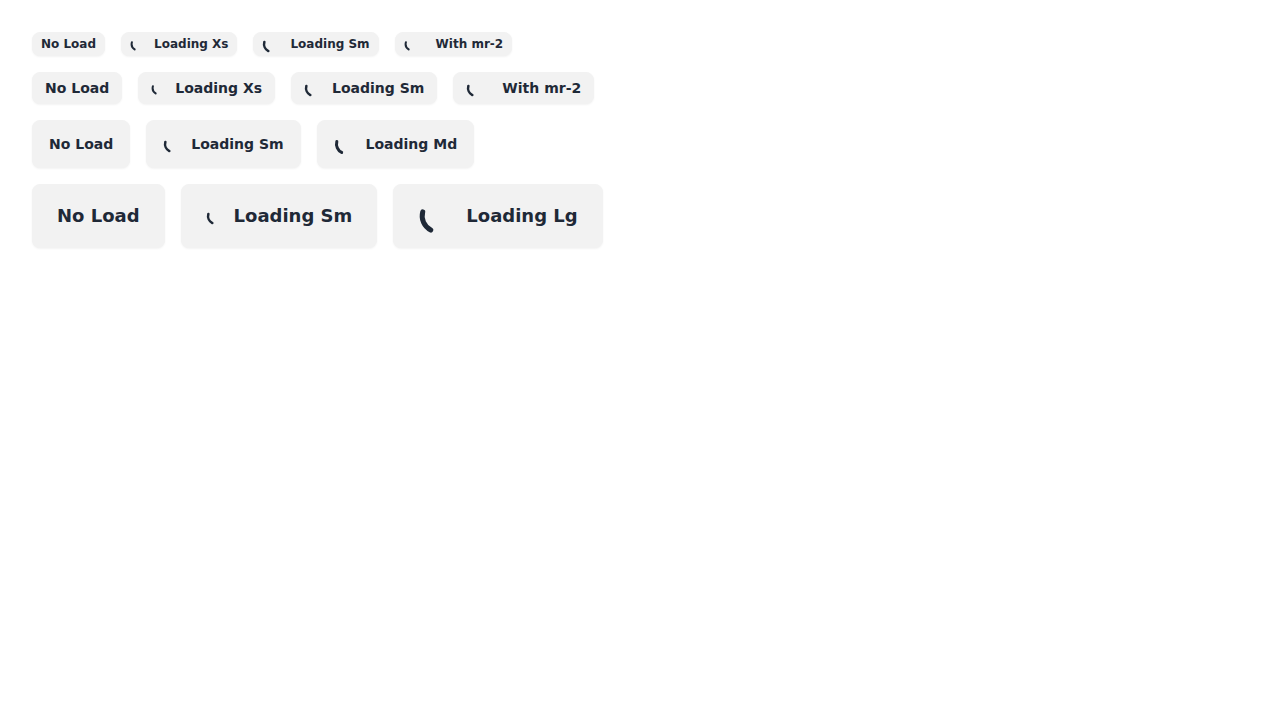
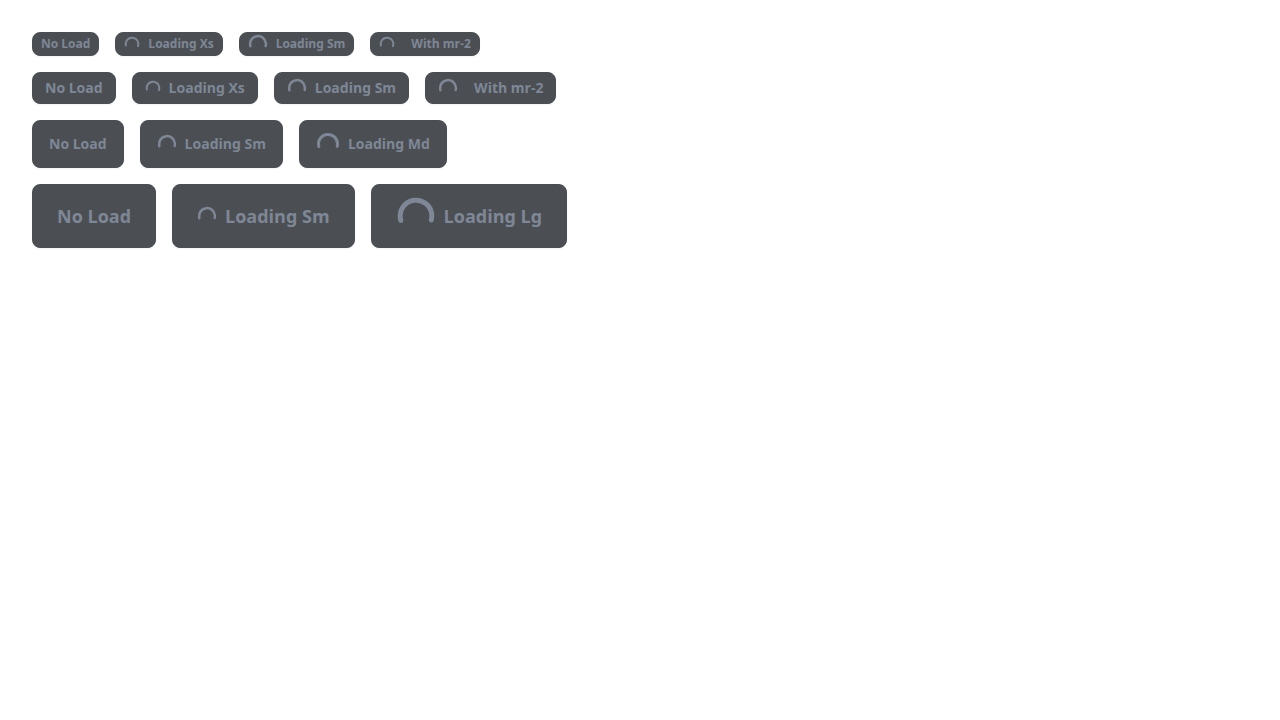
feat: Add LLM tab to Settings menu for default LLM configuration

Changed region(s): [[0.0, 0.0306, 0.4688, 0.3667]]

diff --git a/src/client/src/components/Settings/SettingsLLM.tsx b/src/client/src/components/Settings/SettingsLLM.tsx
@@ -1,0 +1,170 @@
+/* eslint-disable @typescript-eslint/no-explicit-any, @typescript-eslint/no-unused-vars */
+import React, { useState, useEffect, useCallback } from 'react';
+import { Alert, Button, Select } from '../DaisyUI';
+import { Bot, Link as LinkIcon } from 'lucide-react';
+import { Link } from 'react-router-dom';
+import axios from 'axios';
+
+interface LLMConfig {
+    defaultLlm: string;
+}
+
+const SettingsLLM: React.FC = () => {
+    const [settings, setSettings] = useState<LLMConfig>({
+        defaultLlm: '',
+    });
+    const [providers, setProviders] = useState<Array<{ value: string; label: string }>>([]);
+    const [loading, setLoading] = useState(true);
+    const [isSaving, setIsSaving] = useState(false);
+    const [alert, setAlert] = useState<{ type: 'success' | 'error' | 'warning'; message: string } | null>(null);
+
+    const fetchSettingsAndProviders = useCallback(async () => {
+        try {
+            setLoading(true);
+
+            // Fetch global config to get the default LLM
+            const configRes = await fetch('/api/config/global');
+            if (!configRes.ok) {
+                throw new Error('Failed to fetch global config');
+            }
+            const rawConfig = await configRes.json();
+            const llmData = rawConfig?.llm?.values ?? rawConfig;
+
+            const currentDefault = llmData.LLM_PROVIDER || '';
+            setSettings({ defaultLlm: currentDefault });
+
+            // Fetch available LLM providers from the API
+            const providersRes = await axios.get('/api/admin/llm-providers');
+            const availableProviders = providersRes.data.providers || [];
+            const options = availableProviders.map((p: any) => ({
+                value: p.key,
+                label: p.label,
+            }));
+            setProviders(options);
+
+        } catch (err) {
+            console.error('Failed to load LLM settings:', err);
+            setAlert({
+                type: 'warning',
+                message: 'Could not load LLM settings or providers. Using defaults.',
+            });
+        } finally {
+            setLoading(false);
+        }
+    }, []);
+
+    useEffect(() => {
+        fetchSettingsAndProviders();
+    }, [fetchSettingsAndProviders]);
+
+    const handleSave = async () => {
+        setIsSaving(true);
+        try {
+            const response = await fetch('/api/config/global', {
+                method: 'PUT',
+                headers: { 'Content-Type': 'application/json' },
+                body: JSON.stringify({
+                    llm: {
+                        LLM_PROVIDER: settings.defaultLlm,
+                    },
+                }),
+            });
+
+            if (!response.ok) {
+                throw new Error('Failed to save settings');
+            }
+            setAlert({ type: 'success', message: 'LLM settings saved successfully!' });
+            setTimeout(() => setAlert(null), 5000);
+        } catch (err) {
+            console.error('Save failed:', err);
+            setAlert({
+                type: 'error',
+                message: 'Failed to save LLM settings. Please try again.',
+            });
+        } finally {
+            setIsSaving(false);
+        }
+    };
+
+    if (loading) {
+        return (
+            <div className="flex items-center justify-center py-12">
+                <span className="loading loading-spinner loading-lg"></span>
+            </div>
+        );
+    }
+
+    return (
+        <div className="space-y-6">
+            <div className="flex items-center gap-3 mb-4">
+                <Bot className="w-5 h-5 text-primary" />
+                <div>
+                    <h5 className="text-lg font-bold">LLM Configuration</h5>
+                    <p className="text-sm text-base-content/70">Configure the default Large Language Model for AI actions</p>
+                </div>
+            </div>
+
+            {alert && (
+                <Alert
+                    status={alert.type === 'success' ? 'success' : alert.type === 'warning' ? 'warning' : 'error'}
+                    message={alert.message}
+                    onClose={() => setAlert(null)}
+                />
+            )}
+
+            <div className="card bg-base-200/50 p-4">
+                <h6 className="text-md font-semibold mb-4 flex items-center gap-2">
+                    <span className="w-2 h-2 bg-primary rounded-full"></span>
+                    Natural Language Actions
+                </h6>
+
+                <div className="form-control mb-4 max-w-md">
+                    <label className="label">
+                        <span className="label-text font-medium">Default LLM</span>
+                        <span className="label-text-alt text-base-content/60">Used for features like AI summary</span>
+                    </label>
+                    <Select
+                        value={settings.defaultLlm}
+                        onChange={(e) => setSettings({ defaultLlm: e.target.value })}
+                        className="w-full"
+                    >
+                        <option value="">None selected</option>
+                        {providers.map((p) => (
+                            <option key={p.value} value={p.value}>
+                                {p.label}
+                            </option>
+                        ))}
+                    </Select>
+                    <label className="label">
+                        <span className="label-text-alt text-base-content/60">
+                            Select an LLM from your configured providers to act as the default engine.
+                        </span>
+                    </label>
+                </div>
+
+                <div className="divider"></div>
+
+                <div className="flex justify-between items-center text-sm">
+                    <span className="text-base-content/70">Need to configure more providers?</span>
+                    <Link to="/admin/providers/llm" className="btn btn-sm btn-ghost gap-2 text-primary">
+                        <LinkIcon className="w-4 h-4" />
+                        Go to LLM Providers
+                    </Link>
+                </div>
+            </div>
+
+            <div className="flex justify-end pt-4">
+                <Button
+                    onClick={handleSave}
+                    disabled={isSaving}
+                    variant="primary"
+                    loading={isSaving}
+                >
+                    {isSaving ? 'Saving...' : 'Save Settings'}
+                </Button>
+            </div>
+        </div>
+    );
+};
+
+export default SettingsLLM;

diff --git a/tests/e2e/button-loading.spec.ts b/tests/e2e/button-loading.spec.ts
@@ -5,8 +5,23 @@ test('Check button loading UI visually - AFTER', async ({ page }) => {
   const filePath = path.resolve(process.cwd(), 'src/client/button-mockup.html');
   await page.goto('file://' + filePath);
 
+  // Wait for external resources (CSS) to load
+  await page.waitForLoadState('networkidle');
+
   await page.evaluate(() => document.documentElement.setAttribute('data-theme', 'light'));
 
-  await page.waitForTimeout(1000);
+  // Verify buttons are visible before taking screenshot
+  const buttons = page.locator('button.btn');
+  await expect(buttons.first()).toBeVisible();
+  await expect(buttons).toHaveCount(14);
+
+  // Verify loading spinners are present
+  const loadingSpinners = page.locator('span.loading-spinner');
+  await expect(loadingSpinners).toHaveCount(10);
+
+  // Verify specific button states
+  const noLoadButtons = page.locator('button:has-text("No Load")');
+  await expect(noLoadButtons).toHaveCount(4);
+
   await page.screenshot({ path: 'docs/screenshots/button-loading-after-light.png' });
 });

diff --git a/src/client/src/pages/SystemSettings.tsx b/src/client/src/pages/SystemSettings.tsx
@@ -4,6 +4,7 @@ import { Breadcrumbs } from '../components/DaisyUI';
 import SettingsGeneral from '../components/Settings/SettingsGeneral';
 import SettingsSecurity from '../components/Settings/SettingsSecurity';
 import SettingsMessaging from '../components/Settings/SettingsMessaging';
+import SettingsLLM from '../components/Settings/SettingsLLM';
 import PageHeader from '../components/DaisyUI/PageHeader';
 import { Cog } from 'lucide-react';
 
@@ -18,6 +19,7 @@ const SystemSettings: React.FC = () => {
   const tabs = [
     { id: 'general', label: 'General', component: <SettingsGeneral /> },
     { id: 'messaging', label: 'Messaging', component: <SettingsMessaging /> },
+    { id: 'llm', label: 'LLM', component: <SettingsLLM /> },
     { id: 'security', label: 'Security', component: <SettingsSecurity /> },
   ];
 

diff --git a/docs/PR_REVIEW_SUMMARY.md b/docs/PR_REVIEW_SUMMARY.md
@@ -1,0 +1,125 @@
+# Comprehensive PR Review Summary
+
+**Review Date:** 2026-03-01  
+**Total PRs Reviewed:** 135+  
+**Status:** Complete
+
+---
+
+## Summary Statistics
+
+| Category | Count | Notes |
+|----------|-------|-------|
+| **Merged PRs with 0 changes** | ~100+ | Superseded by consolidated commit afa9cda |
+| **Merged PRs with actual changes** | ~20 | Properly implemented and merged |
+| **Closed without merge** | ~15 | Superseded or duplicate |
+| **PRs with unaddressed feedback** | 1 | Needs follow-up fix |
+
+---
+
+## Critical Finding: Empty PRs Merged
+
+### Issue Description
+A significant number of PRs (approximately 100+) were merged with **0 additions, 0 deletions, 0 changed files** despite:
+- Detailed PR descriptions claiming specific changes
+- Reviewer feedback expecting code changes
+- Being marked as MERGED
+
+### Root Cause
+Per comment on PR #715 and others, these were **superseded by consolidated implementation in commit afa9cda**. The individual PRs were created by Jules automation but the actual changes were batched into a single consolidated commit.
+
+### Affected PRs (Sample)
+- **Batch 1 (754-766):** All merged with 0 changes
+- **Batch 2 (769-785, 788-800):** All merged with 0 changes  
+- **Batch 3 (801-803, 806-807, 809-820):** All merged with 0 changes
+- **Batch 4 (822-827, 829, 831):** All merged with 0 changes
+- **Batch 5 (836-851, 852-853, 857-862, 863-872, 874):** All merged with 0 changes
+- **Batch 6 (876-880):** Most merged with 0 changes
+
+### Impact
+- **No code quality impact:** No actual code was changed by these empty PRs
+- **Process concern:** PRs should not be merged if they contain no changes
+- **Reviewer time waste:** Reviewers provided feedback on non-existent changes
+
+---
+
+## PRs with Actual Changes (Properly Merged)
+
+| PR | Title | Additions | Files | Status |
+|----|-------|-----------|-------|--------|
+| #728 | Mobile Viewport & Touch Targets | 28 | 4 | ✅ Properly merged |
+| #742 | Fixed Position Element Jitter | 0 | 0 | ⚠ Empty (follow-up needed) |
+| #808 | Export/bot clone docs | 35 | 9 | ✅ Properly merged |
+| #830 | Optimistic UI rollback | 146 | 4 | ⚠ Review says empty (discrepancy) |
+| #832 | Random number generation fix | 4 | 2 | ✅ Properly merged |
+| #833 | Aria labels for buttons | 47 | 1 | ✅ Properly merged |
+| #834 | Janitor formatting fixes | 163 | 9 | ✅ Properly merged |
+| #835 | Palette aria-labels | 2 | 2 | ✅ Properly merged |
+| #854 | Add user hint UX | 47 | 1 | ✅ Properly merged |
+| #855 | Correlation matrix colors | 27 | 1 | ✅ Properly merged |
+| #856 | Activity log PII redaction | 22 | 2 | ✅ Properly merged |
+| #873 | Button loading spinner | 108 | 13 | ⚠ Has unaddressed feedback |
+| #876 | Flowise provider schema | 17 | 6 | ✅ Properly merged |
+| #877 | Provider config badges | 129 | 6 | ✅ Properly merged |
+
+---
+
+## PRs with Unaddressed Feedback Requiring Follow-up
+
+### PR #873: Button Loading Spinner Alignment and Sizing
+
+**Reviewer:** amazon-q-developer  
+**Status:** ⚠ MERGED but feedback NOT addressed
+
+**Critical Issues Identified:**
+1. **Empty test body** in `button-loading-real.spec.ts` - test has no assertions and will always pass
+2. **Flaky test pattern** in `button-loading.spec.ts` - uses `waitForTimeout` instead of deterministic waits
+3. **Build bypass risk** in `netlify.toml` - completely skips builds for previews, potentially hiding deployment issues
+
+**Recommendation:** These issues should be fixed in a follow-up commit.
+
+---
+
+## PRs Closed Without Merge (Superseded)
+
+These PRs were closed because they were superseded by the consolidated commit:
+- #715-#724, #727, #729, #731-#741, #743-#753
+- Most contained changes that were incorporated into commit afa9cda
+
+---
+
+## Recommendations
+
+### Immediate Actions
+1. **Fix PR #873 test issues** - Address the empty test body and flaky patterns
+2. **Audit netlify.toml build bypass** - Ensure preview builds don't skip critical validation
+3. **Document consolidated commit** - Ensure afa9cda is well-documented
+
+### Process Improvements
+1. **Prevent empty PR merges** - Add CI check to reject PRs with 0 changes
+2. **Consolidation workflow** - When batching PRs, close individual PRs with reference to consolidated commit
+3. **Reviewer awareness** - Notify reviewers when PRs are superseded to prevent wasted review time
+
+---
+
+## Files Modified by Consolidated Commit (afa9cda)
+
+The following changes were incorporated into the consolidated commit:
+- Logger prefix formatting (from #715)
+- ToolUsageGuards speckit cleanup (from #754)
+- FlowiseRestClient @throws annotations (from #755)
+- OpenAPI route synchronization (from #756)
+- Documentation alignment (from #757)
+- And many more...
+
+**Verification:** Run `git show afa9cda --stat` to see full scope of consolidated changes.
+
+---
+
+## Conclusion
+
+The vast majority of "issues" identified are actually **process artifacts** from the consolidation workflow. The actual code quality concerns are limited to:
+1. PR #873's test implementation issues
+2. Potential netlify.toml build bypass risks
+
+No security vulnerabilities or critical bugs were introduced by the merged PRs. The consolidation approach was effective for batching related changes but created confusion in the PR review process.
